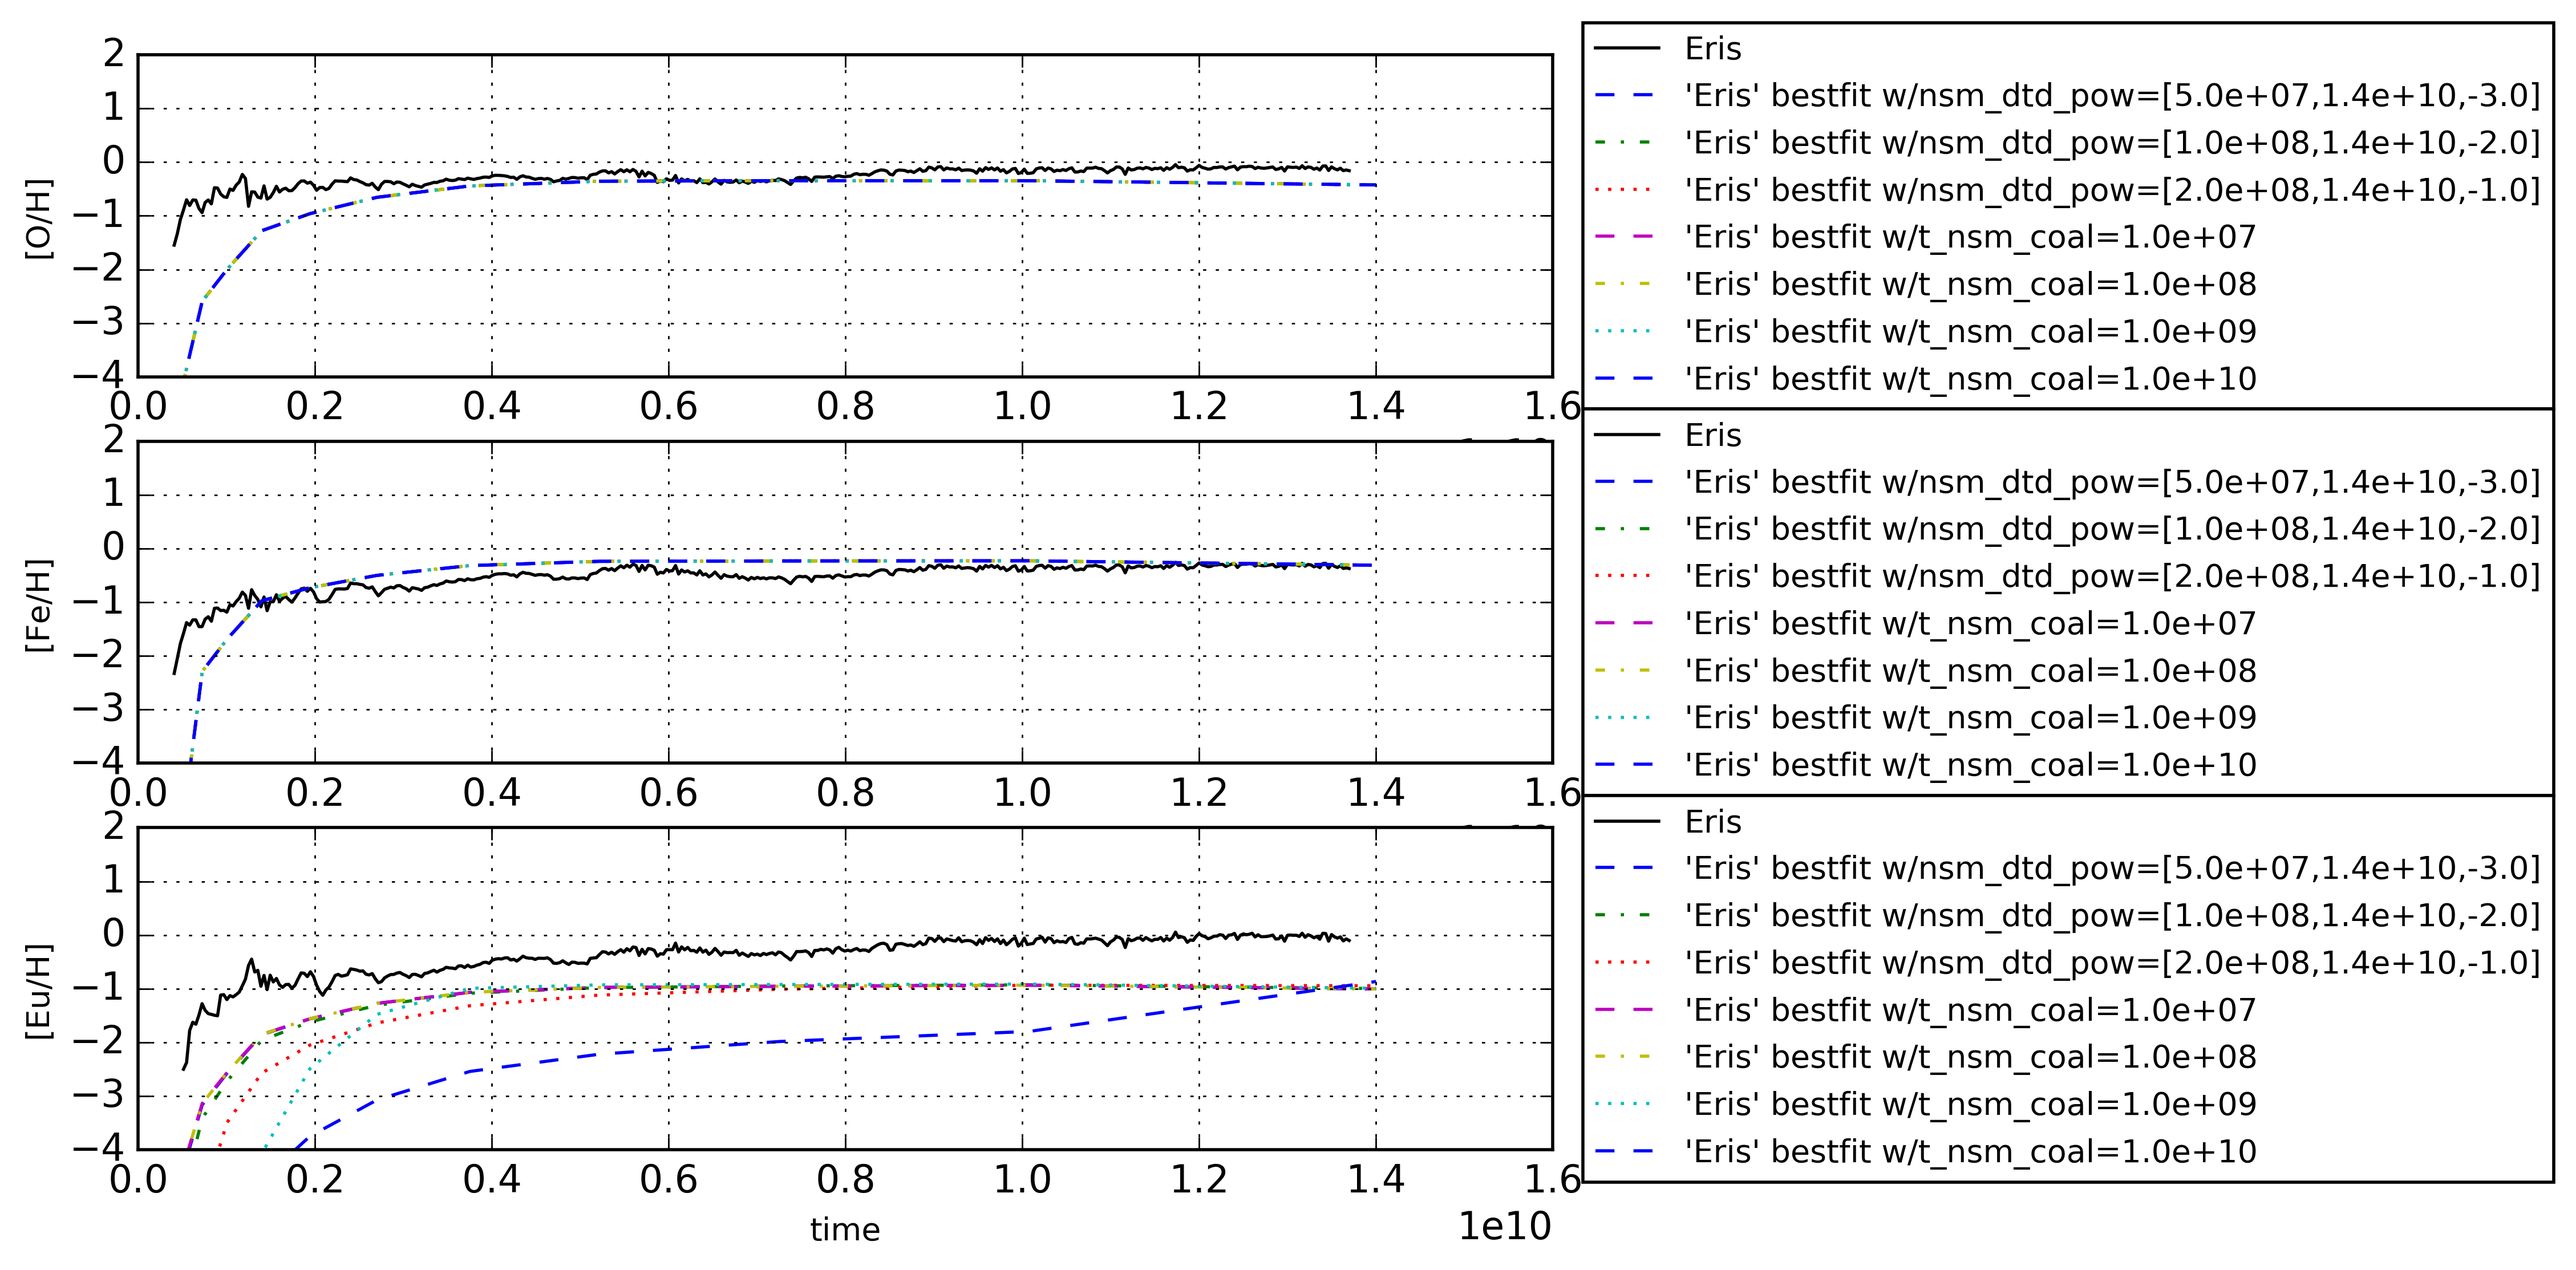
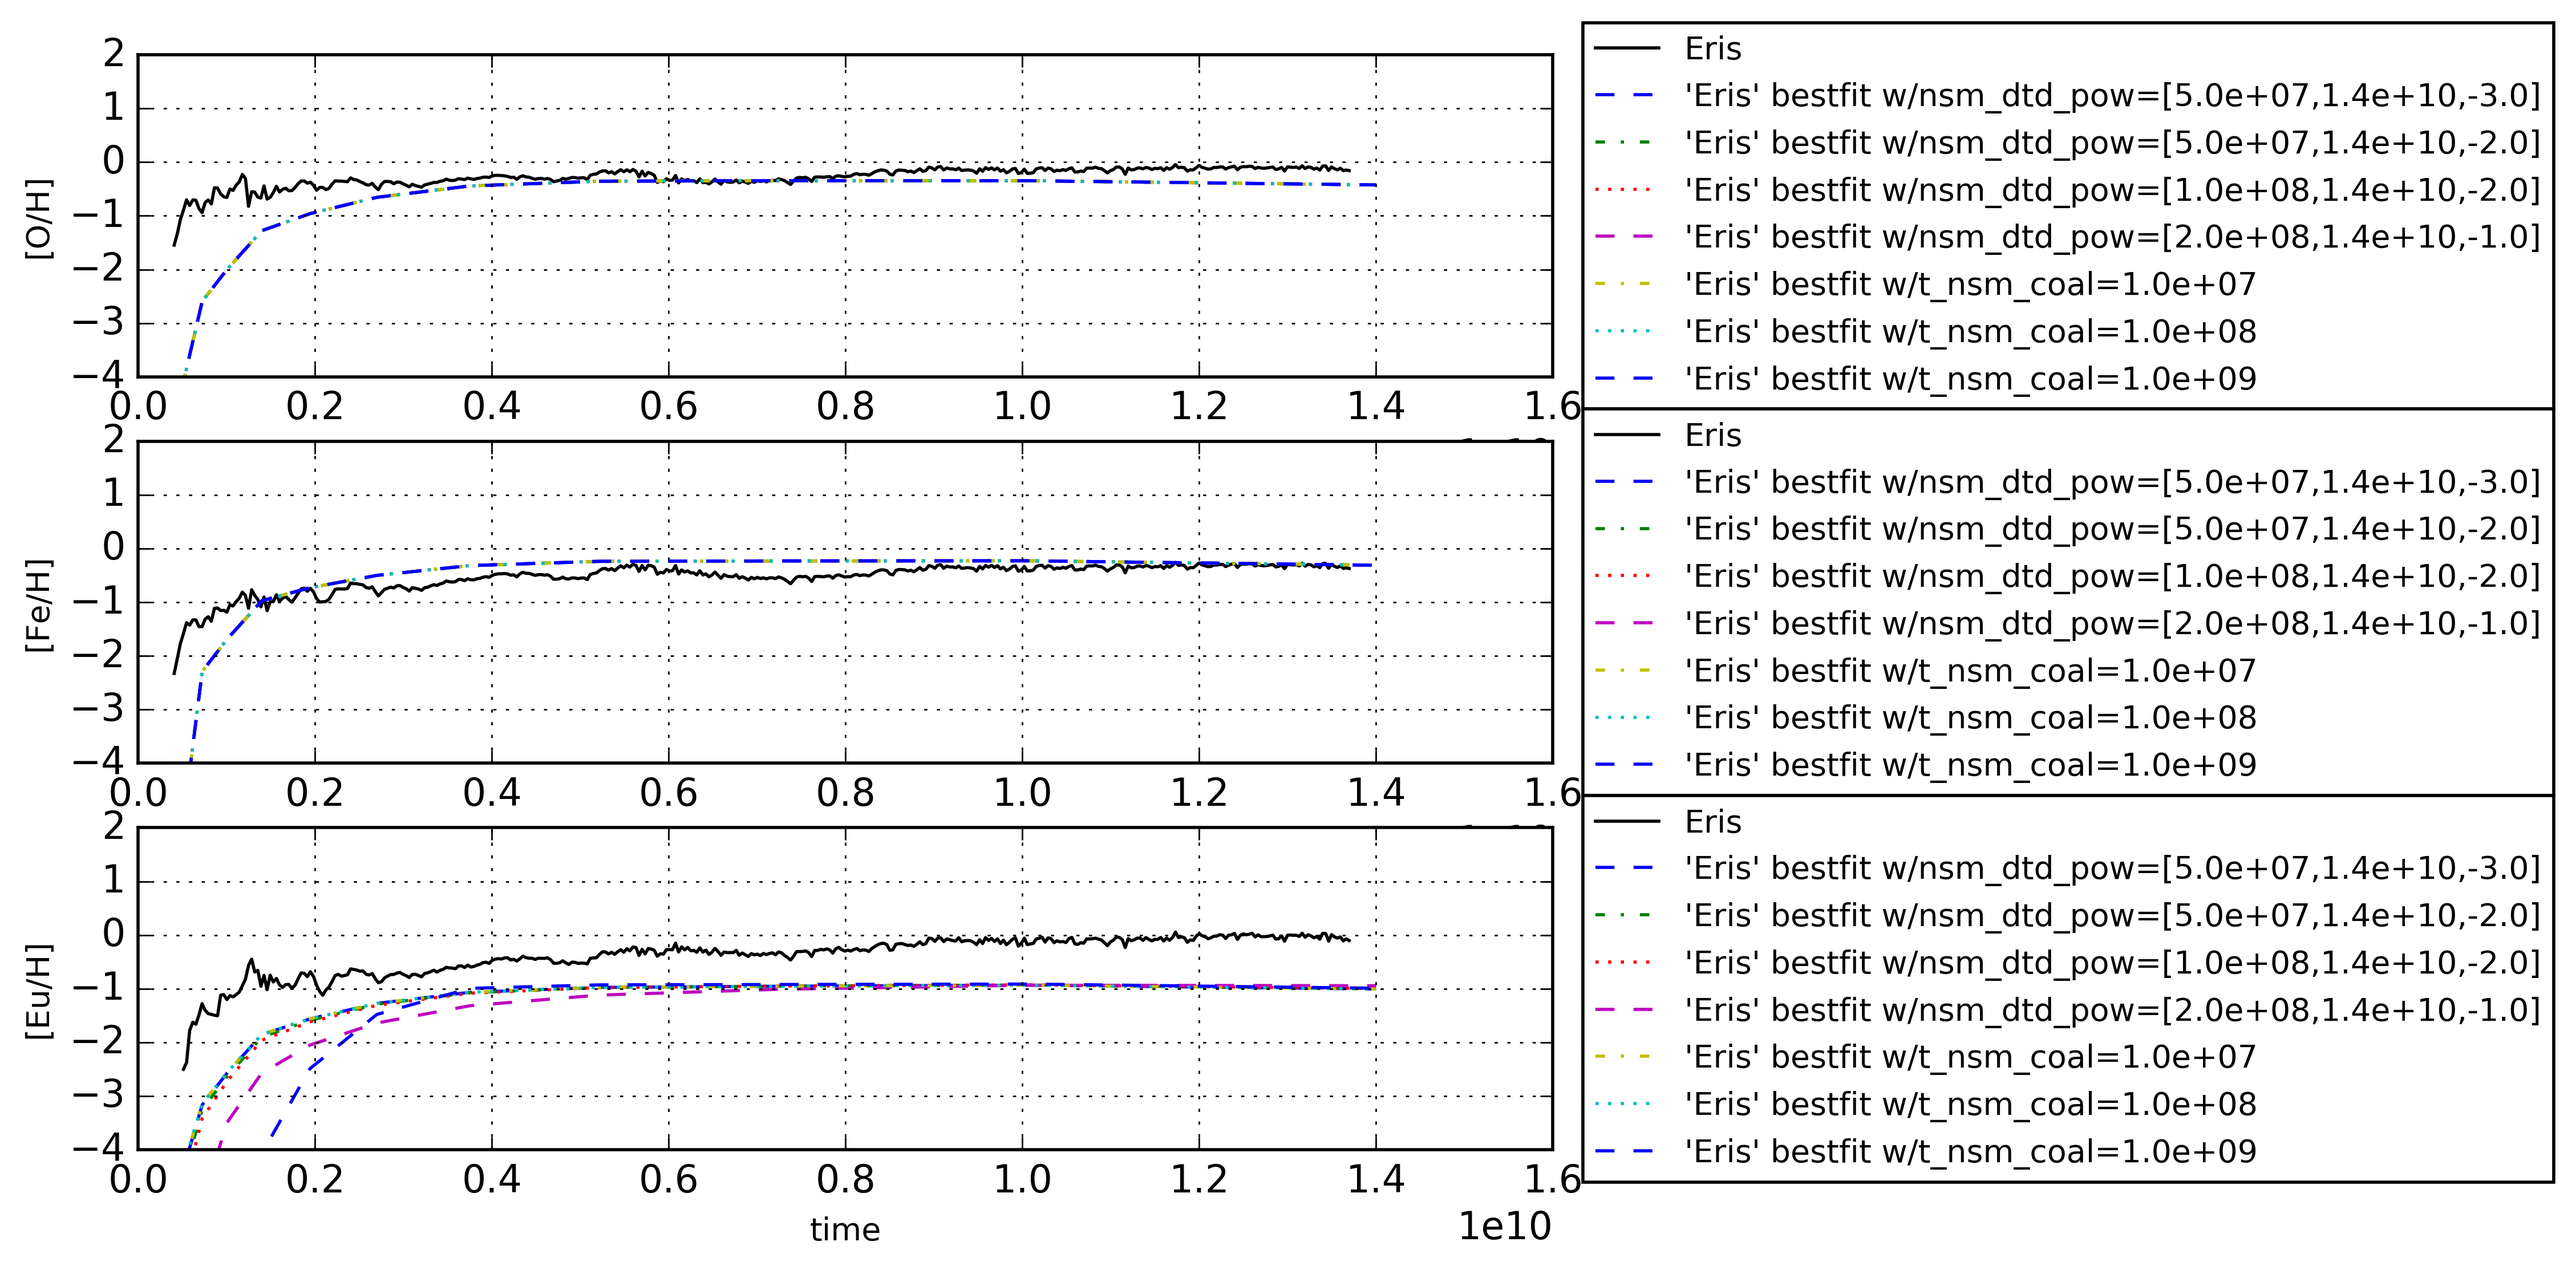
New updates to NSM-bestfit

diff --git a/bestfit_param_omega/find_bestfit_param_v3/set_nsm_from_eris.py b/bestfit_param_omega/find_bestfit_param_v3/set_nsm_from_eris.py
@@ -16,7 +16,7 @@ from bestfit_param_omega.find_bestfit_param_v2.set_sn1a_from_cote import eris_be
 from visualize import visualize, save_data
 
 if __name__ == '__main__':
-    num_steps = 30
+    num_steps = 300
     print "Number of timesteps: ", num_steps
 
 def plot_rates(loa_omegas, loa_omega_names, version_string, expl_string):
@@ -75,8 +75,8 @@ if __name__ == '__main__' and False:
     t_H = eris_bestfit.bestfit_tend #hubbletime
     new_list_of_models = []
     new_list_of_model_names = []
-    loa_t_min = [50e+6,100e+6, 200e+6]
-    loa_nsm_pow = [-3,-2,-1]
+    loa_t_min = [50e+6,50e+6,100e+6, 200e+6]
+    loa_nsm_pow = [-3,-2,-2,-1]
     for t_min,nsm_pow in zip(loa_t_min, loa_nsm_pow):
         eris_bestfit.bestfit_nsm_dtd_power = [t_min, t_H, nsm_pow]
         eris_omega = omega_new(eris_bestfit)
@@ -86,7 +86,7 @@ if __name__ == '__main__' and False:
 
     #look for similar effect in t_nsm_coal
     def_t_coal = eris_bestfit.bestfit_t_nsm_coal#default
-    loa_timescale = [1e+7, 1e+8, 1e+9, 1e+10]
+    loa_timescale = [1e+7, 1e+8, 1e+9]
     for timescale in loa_timescale:
         eris_bestfit.bestfit_t_nsm_coal = timescale
         eris_omega = omega_new(eris_bestfit)
@@ -99,12 +99,16 @@ if __name__ == '__main__' and False:
                  version_string="v1",
                  expl_string="Applying different nsm-dtd to 'Eris' parameters")
 #conclusions with dtd
+#little difference between t_nsm_coal and distributions at those timescales
 dtd = [100e+6, eris_bestfit.bestfit_tend, -2] #'Eris' distribution in Shen (2015)
 dtd = [50e+6, eris_bestfit.bestfit_tend, -3] #more preferable
+dtd = [50e+6, eris_bestfit.bestfit_tend, -2] #'Eris' distribution with earlier minimum time.
 coal_time = 1e+7
 
 #Use coal_time for now...
-eris_bestfit.bestfit_t_nsm_coal = coal_time
+#eris_bestfit.bestfit_t_nsm_coal = coal_time
+#use _a_ appropriate dtd
+eris_bestfit.bestfit_nsm_dtd_power = dtd
 
 if __name__ == '__main__' and False:
     #try changing ejecta mass
@@ -112,7 +116,7 @@ if __name__ == '__main__' and False:
     def_ej_mass = eris_bestfit.bestfit_m_ej_nsm
     new_list_of_models = []
     new_list_of_model_names = []
-    loa_ejmass = [1e-5, 1e-3, 1e-1]
+    loa_ejmass = [1e-3, 1e-1, 2e-1, 3e-1, 1.0]
     for ejmass in loa_ejmass:
         eris_bestfit.bestfit_m_ej_nsm = ejmass
         eris_omega = omega_new(eris_bestfit)
@@ -124,50 +128,106 @@ if __name__ == '__main__' and False:
                  expl_string="Applying different ejecta masses to 'Eris' parameters")
     eris_bestfit.bestfit_m_ej_nsm = def_ej_mass #return to default
 #conclusion
-#singlehandedly m_ej_nsm needs to be ~ 1e-1
+#singlehandedly m_ej_nsm needs to be ~ 2-3e-1
     
 if __name__ == '__main__' and False:
-    #try changing f_merger (merger fraction)
+    #try changing f_merger (merger fraction) to get enough europium and appropriate rates
     eris_bestfit.bestfit_special_timesteps = num_steps
     def_f_merger = eris_bestfit.bestfit_f_merger
     new_list_of_models = []
     new_list_of_model_names = []
 
-    loa_fractions = [1e-5, 1e-4, 2e-4, 1e-3, 1e-2]
+    loa_fractions = [7e-4, 9e-4, 1e-3, 7e-3, 1e-2, 1e-1]
     for fraction in loa_fractions:
         eris_bestfit.bestfit_f_merger = fraction
         eris_omega = omega_new(eris_bestfit)
         new_list_of_models.append(eris_omega)
         new_list_of_model_names.append("'Eris' bestfit w/f_merger=%1.1e"%(fraction))
 
+    plot_rates(loa_omegas=new_list_of_models, loa_omega_names=new_list_of_model_names,
+                 version_string="v2_mergerfraction_rates",
+               expl_string="Applying different merger-fractions to 'Eris' parameters")
     plot_spectro(loa_omegas=new_list_of_models, loa_omega_names=new_list_of_model_names,
-                 version_string="v2_mergerfraction",
+                 version_string="v2_mergerfraction_spectro",
                  expl_string="Applying different merger-fractions to 'Eris' parameters")
     eris_bestfit.bestfit_f_merger = def_f_merger
 #conclusion
-#singlehandedly f_merger needs to be ~ 1e-2
+#singlehandedly f_merger needs to be ~ 1e-2 to reproduce [Eu/H]
+#singlehandedly f_merger needs to be ~ 9e-4 to reproduce rates
 
 if __name__ == '__main__' and False:
-    #try changing f_merger (merger fraction)
+    #look for similar effect in nb_nsm_per_m (overrides merger-fraction)
     eris_bestfit.bestfit_special_timesteps = num_steps
     def_nb_nsm = eris_bestfit.bestfit_nb_nsm_per_m
     new_list_of_models = []
     new_list_of_model_names = []
 
-    #look for similar effect in nb_nsm_per_m
-    loa_fractions = [1e-6, 8e-6, 1e-5, 2e-5, 1e-4]
+    loa_fractions = [2e-6, 1e-5, 2e-5, 3e-5, 1e-4]
     for fraction in loa_fractions:
         eris_bestfit.bestfit_nb_nsm_per_m = fraction
         eris_omega = omega_new(eris_bestfit)
         new_list_of_models.append(eris_omega)
-        new_list_of_model_names.append("'Eris' bestfit w/\#nsm/m=%1.1e"%(fraction))
+        new_list_of_model_names.append("'Eris' bestfit w/(#nsm/m)=%1.1e"%(fraction))
 
+    plot_rates(loa_omegas=new_list_of_models, loa_omega_names=new_list_of_model_names,
+                 version_string="v2_nbnsm_rates",
+                 expl_string="Applying different nsm-rates to 'Eris' parameters")
     plot_spectro(loa_omegas=new_list_of_models, loa_omega_names=new_list_of_model_names,
-                 version_string="v2_nbnsm",
+                 version_string="v2_nbnsm_spectro",
                  expl_string="Applying different nsm-rates to 'Eris' parameters")
     
     eris_bestfit.bestfit_nb_nsm_per_m = def_nb_nsm
 #conclusion
-#singlehandedly nb_nsm_per_m needs to be ~ 2e-5
+#singlehandedly nb_nsm_per_m needs to be ~ 2-3e-5 to reproduce [Eu/H]
+#singlehandedly nb_nsm_per_m needs to be ~ 2e-6 to reproduce rates
 
+if __name__ == '__main__' and False:
+    #adjust merger-fraction to rates and ejecta-mass to [EU/H]
+    eris_bestfit.bestfit_special_timesteps = num_steps
+    new_list_of_models = []
+    new_list_of_model_names = []
+
+    #loa_fractions = [8e-4, 9e-4]
+    fraction = 8e-4
+    loa_ej_mass = [6e-2, 8e-2, 2e-1, 3e-1]
+    #for fraction, ej_mass in zip(loa_fractions, loa_ej_mass):
+    for ej_mass in loa_ej_mass:
+        eris_bestfit.bestfit_f_merger = fraction
+        eris_bestfit.bestfit_m_ej_nsm = ej_mass
+        eris_omega = omega_new(eris_bestfit)
+        
+        new_list_of_models.append(eris_omega)
+        new_list_of_model_names.append("'Eris' bestfit M_ej=%1.1e f_m=%1.1e"%(fraction, ej_mass))
+
+    plot_rates(loa_omegas=new_list_of_models, loa_omega_names=new_list_of_model_names,
+                 version_string="v3_rates",
+                 expl_string="Combination of KN-rate and spectroscopic fit")
+    plot_spectro(loa_omegas=new_list_of_models, loa_omega_names=new_list_of_model_names,
+                 version_string="v3_spectro",
+                 expl_string="Combination of KN-rate and spectroscopic fit")
+
+#Grand conclusion
+#use realistic ejecta mass and appropriate dtd/merger fractions
+#eris_bestfit_nsm_dtd_power #already set
+eris_bestfit.bestfit_m_ej_nsm = 2e-1
+eris_bestfit.bestfit_f_merger = 8e-4
+print "The grand NSM conclusion:"
+print "Dtd power-law: ", eris_bestfit.bestfit_nsm_dtd_power
+print "Relative mass ejecta: ", eris_bestfit.bestfit_m_ej_nsm
+print "Merger-fraction: ", eris_bestfit.bestfit_f_merger
+
+if __name__ == '__main__' and True:
+    #check grand conclusion
+    eris_bestfit.bestfit_special_timesteps = num_steps
+    eris_omega = omega_new(eris_bestfit)
+    new_list_of_models = [eris_omega]
+    new_list_of_model_names = ["'Eris lookalike' from determining NSM parameters"]
+    
+    plot_rates(loa_omegas=new_list_of_models, loa_omega_names=new_list_of_model_names,
+                 version_string="v4_rates",
+                 expl_string="Final check for nsm-parameters")
+    plot_spectro(loa_omegas=new_list_of_models, loa_omega_names=new_list_of_model_names,
+                 version_string="v4_spectro",
+                 expl_string="Final check for nsm-parameters")
+    
 pl.show()

diff --git a/bestfit_param_omega/find_bestfit_param_v3/conclusion.py b/bestfit_param_omega/find_bestfit_param_v3/conclusion.py
@@ -1,0 +1,6 @@
+"""
+This is a summary of parameters found by changing nsm-parameters in 'wset_nam_from_eris'
+"""
+bestfit_m_ej_nsm = 2e-1
+bestfit_f_merger = 8e-4
+bestfit_nsm_dtd_power = [50e+6, 14e+9, -2]

diff --git a/bestfit_param_omega/find_bestfit_param_v3/README.md b/bestfit_param_omega/find_bestfit_param_v3/README.md
@@ -13,7 +13,49 @@ Parameters
 
 Results
 --------
+- Set delay time distribution inspired by Shen et. al. (2015), but also include models where all neutron star binaries merge after a given amount of time
+  - There is not much difference (in spectroscopic data) between a steep power-law distribution and a global coallesence time (all nsm occurs after a given amount of time)
+  - In order to keep the model slightly more "realitic", a dtd similar to Shen et. al. (2015) will be used, but with a much shorter minimum time.
+  - NSM DTD: `\int_{t_min}^{t_Hubble=14Gyr}t^{-2}dt}` with `t_min`=50Myr
 ![dtd](data/nsm_parameters_v1_n30.png)
+
+- Change the mass ejected from each BNSM in order to get the appropriate amount of Eu
+  - ejecta mass ~ 0.3 in order to reproduce [Eu/H] by itself
 ![ejecta](data/nsm_parameters_v2_ejmass_n30.png)
-![ejecta](data/nsm_parameters_v2_mergerfraction_n30.png)
-![ejecta](data/nsm_parameters_v2_nbnsm_n30.png)
+- Change the fraction of binary neutron stars that do merge, in order to find the appropriate rate of KN
+  - the merger fraction should be ~ 9e-4 in order to reproduce the KN rates
+  - the merger fraction should be ~ 1e-2 in order to reproduce [Eu/H]
+![merger fraction](data/nsm_parameters_v2_mergerfraction_rates_n300.png)
+![merger fraction](data/nsm_parameters_v2_mergerfraction_spectro_n300.png)
+- Get KN-rate from star-formation rate (set number of NSMs per solar mass formed)
+  - NSMs per mass should be ~ 2e-6 in order to reproduce the KN rates
+  - NSMs per mass should be ~ (2-3)e-5 in order to reproduce [Eu/H]
+![nsm per mass](data/nsm_parameters_v2_nbnsm_rates_n300.png)
+![nsm per mass](data/nsm_parameters_v2_nbnsm_spectro_n300.png)
+- Use appropriate merger-fraction to find appropriate ejecta mass
+  - merger fraction ~ 8e-4 to reproduce rates
+  - ejecta mass ~ 0.3 to reproduce [Eu/H]
+![merger fraction and ejecta mass](data/nsm_parameters_v3_rates_n300.png)
+![merger fraction and ejecta mass](data/nsm_parameters_v3_spectro_n300.png)
+- End result with bestfit parameters
+  - NSM DTD: `\int_{t_min}^{t_Hubble=14Gyr}t^{-2}dt}` with `t_min`=50Myr
+  - merger fraction ~ 8e-4 to reproduce rates
+  - ejecta mass ~ 0.3 to reproduce [Eu/H]
+![final](data/nsm_parameters_v4_rates_n300.png)
+![final](data/nsm_parameters_v4_spectro_n300.png)
+
+Comments to self
+------------------
+Datafiles for thesis
+ - [dtd/t\_nsm\_coal - [Eu/H]](data/nsm_parameters_v1_2_n30_explanatory.txt)
+ - [ejecta mass - [Eu/H]](data/nsm_parameters_v2_ejmass_2_n30_explanatory.txt)
+ - [merger fraction - KN rate](data/nsm_parameters_v2_mergerfraction_rates_2_n300_explanatory.txt)
+ - [merger fraction - [Eu/H]](data/nsm_parameters_v2_mergerfraction_spectro_2_n300_explanatory.txt)
+ - [nsm per mass - KN rate](data/nsm_parameters_v2_nbnsm_rates_2_n300_explanatory.txt)
+ - [nsm per mass - [Eu/H]](data/nsm_parameters_v2_nbnsm_spectro_2_n300_explanatory.txt)
+ - [merger fraction and ejecta mass - KN rate](data/nsm_parameters_v3_rates_2_n300_explanatory.txt)
+ - [merger fraction and ejecta mass - [Eu/H]](data/nsm_parameters_v3_spectro_2_n300_explanatory.txt)
+ - [Final - KN rate](data/nsm_parameters_v4_rates_2_n30_explanatory.txt)
+ - [Final - [Eu/H]](data/nsm_parameters_v4_spectro_2_n30_explanatory.txt)
+
+[Go back](../README.md)

diff --git a/bestfit_param_omega/find_bestfit_param_v2/README.md b/bestfit_param_omega/find_bestfit_param_v2/README.md
@@ -50,5 +50,23 @@ higher transitionmass means lower iron but the effect is neglectable. Leave as i
 Comments to self
 ------------------
 Datafiles to be used in thesis
+ - Files with no significant effect (thereby showing why they can be neglected).
+   - [population III stars - yield tables - [O/H]](data/star_parameters_v3_0_n300_explanatory.txt)
+   - [population III stars - yield tables - [Fe/H]](data/star_parameters_v3_1_n300_explanatory.txt)
+   - [population III stars - mass function boundaries - [O/H]](data/star_parameters_v4_0_n300_explanatory.txt)
+   - [population III stars - mass function boundaries - [Fe/H]](data/star_parameters_v4_1_n300_explanatory.txt)
+   - [transitionmass between agb and massive - [Fe/H]](data/star_parameters_v2_1_n30_explanatory.txt)
+   - [supernovae type 1a - yield tables - [Fe/H]](data/sn1a_parameters_v3_spectro_1_n30_explanatory.txt)
+ - Files with some aspect of effect.
+   - [\#SN1a - first try - [O/H]](data/sn1a_parameters_v1_spectro_0_n30_explanatory.txt)
+   - [\#SN1a - first try - [Fe/H]](data/sn1a_parameters_v1_spectro_1_n30_explanatory.txt)
+   - [dtd SN1a - power law - [O/H]](data/sn1a_parameters_v2_powerlaw_spectro_0_n30_explanatory.txt)
+   - [dtd SN1a - power law - [Fe/H]](data/sn1a_parameters_v2_powerlaw_spectro_1_n30_explanatory.txt)
+   - [dtd SN1a - gaussian - [O/H]](data/sn1a_parameters_v2_gauss_spectro_0_n30_explanatory.txt)
+   - [dtd SN1a - gaussian - [Fe/H]](data/sn1a_parameters_v2_gauss_spectro_1_n30_explanatory.txt)
+   - [dtd SN1a - exponential - [O/H]](data/sn1a_parameters_v2_exp_spectro_0_n30_explanatory.txt)
+   - [dtd SN1a - exponential - [Fe/H]](data/sn1a_parameters_v2_exp_spectro_1_n30_explanatory.txt)
+   - [\#SN1a - second try - [O/H]](data/sn1a_parameters_v4_spectro_0_n30_explanatory.txt)
+   - [\#SN1a - second try - [Fe/H]](data/sn1a_parameters_v4_spectro_1_n30_explanatory.txt)
 
 [Go back](../README.md)
